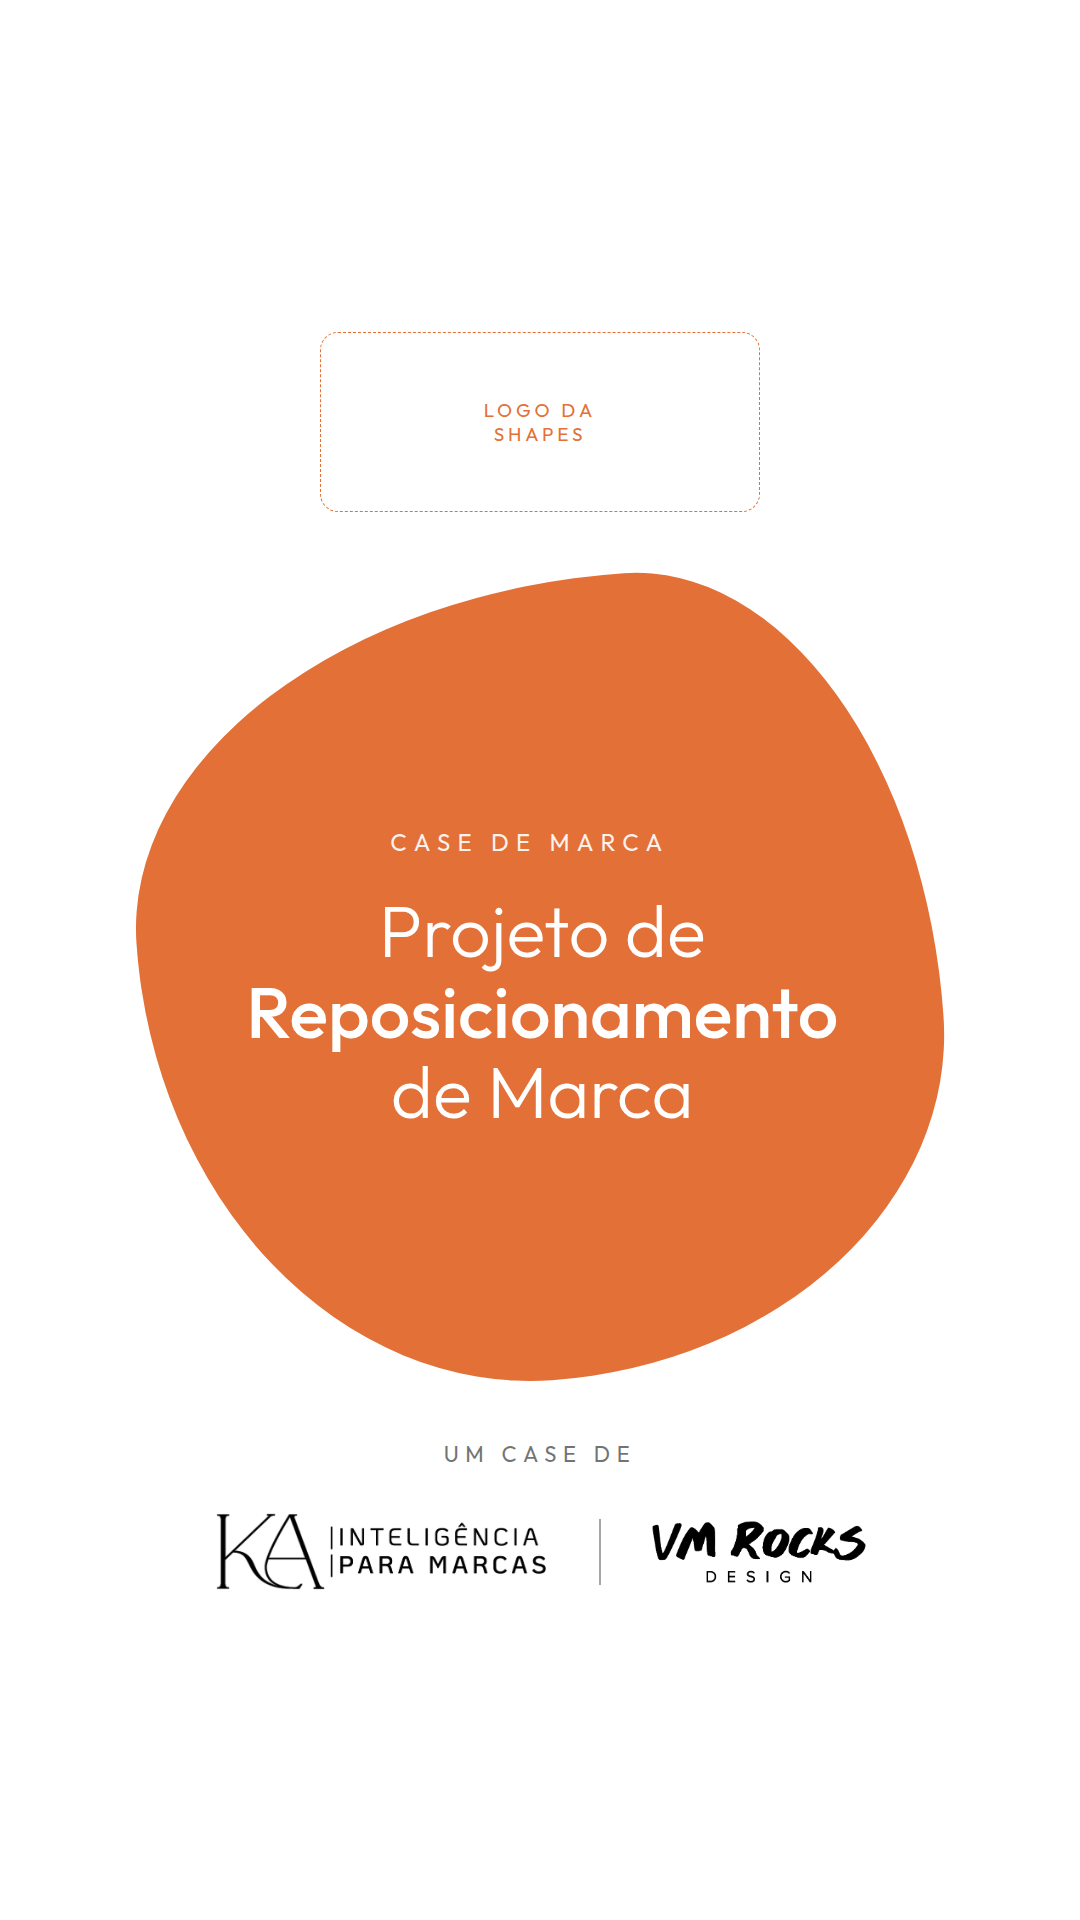
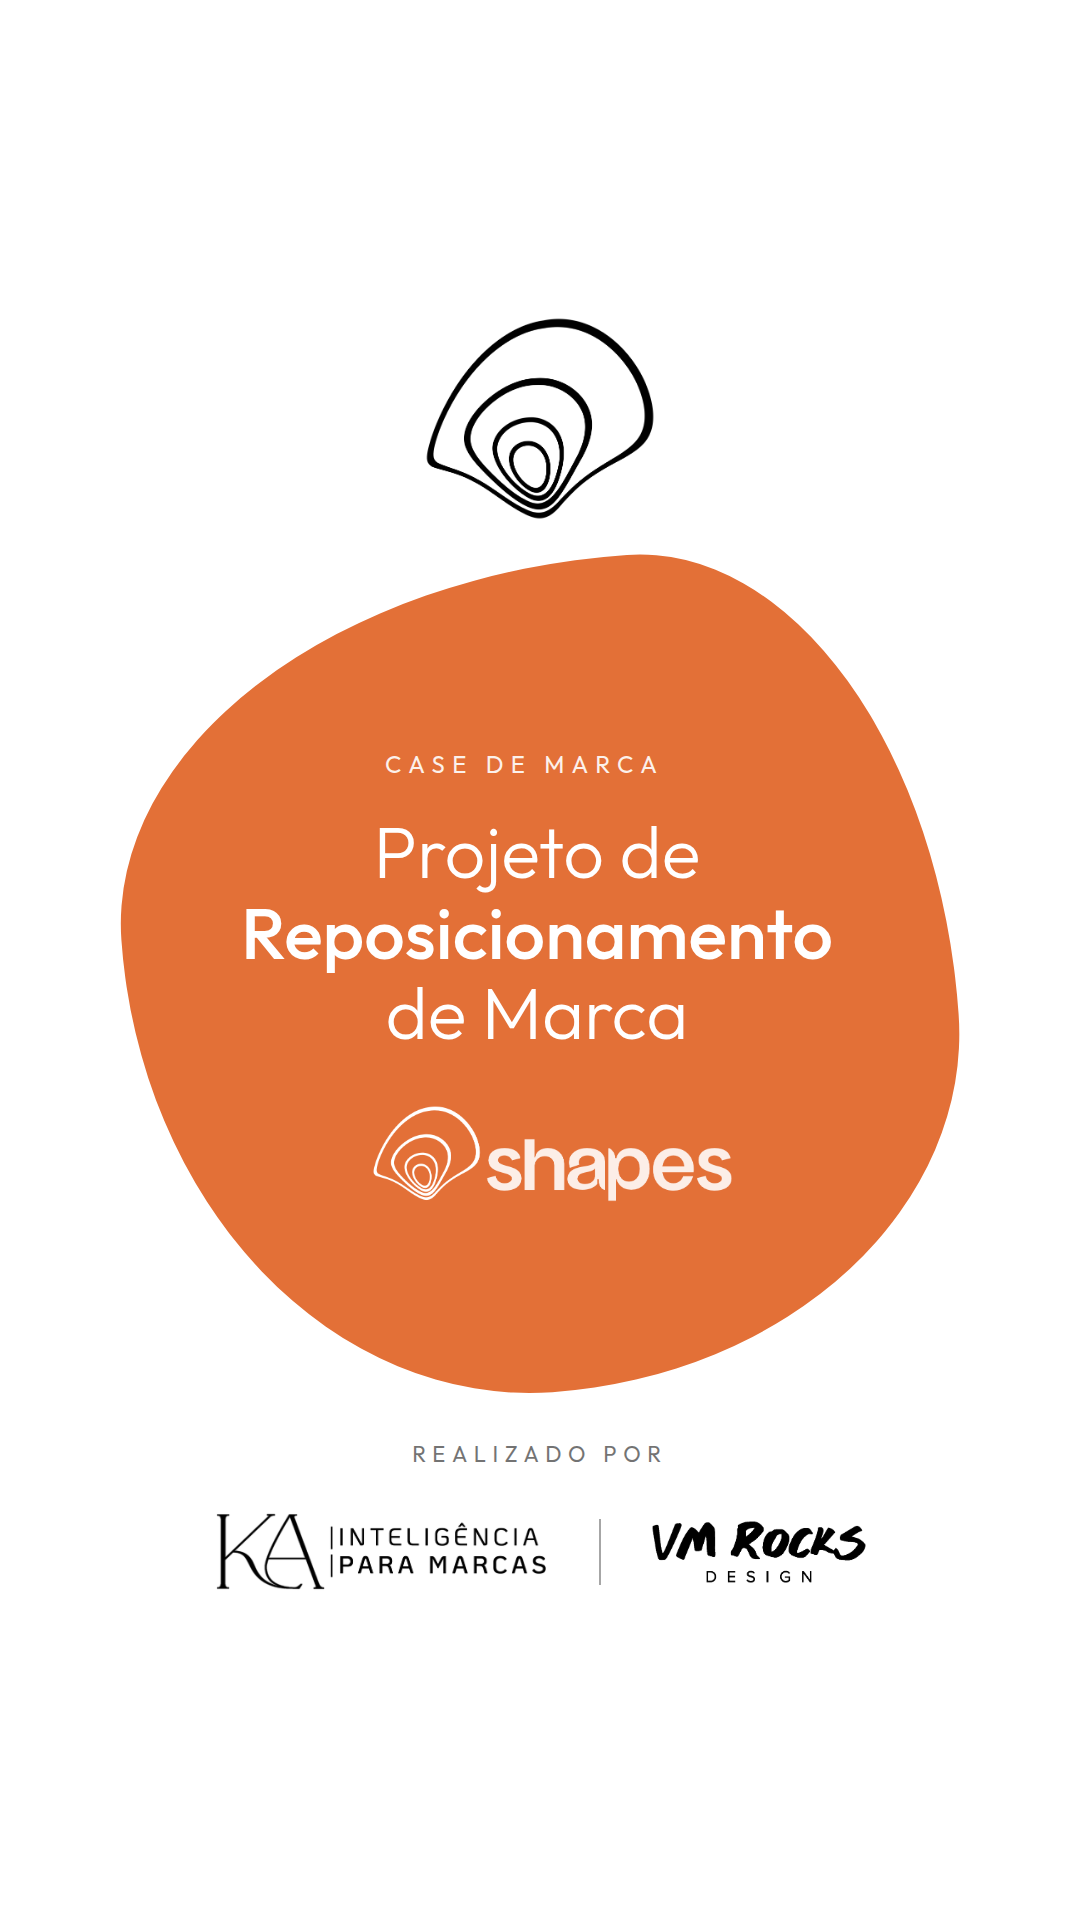
Aplica a marca da Shapes na capa do case
- a concha, sozinha, abre a capa
- a marca completa fecha o bloco do titulo, dentro da forma laranja
- "Um case de" vira "Realizado por"

Os dois ativos foram extraidos dos prints enviados: o branco virou
transparencia pelo inverso da luminancia, o que preserva as bordas suaves
do traco. A primeira extracao pegou os pontinhos de paginacao do app junto
e deu proporcao errada (0,87:1 para um lockup que e 3,53:1); localizei a
faixa real do desenho contando pixels escuros por linha.

Dentro da forma a marca vai na versao branca: sobre o laranja, a preta
brigaria com o texto. E ela precisou de 368px, nao 300 — abaixo disso a
concha do lockup fica com menos de 90px e as linhas internas viram borrao.
A forma cresceu de 800 para 830px para acomodar o bloco maior; sobraram
192px entre a marca e a base da forma.

Os arquivos sao reconstrucao a partir de captura de tela, nao os vetores
originais. Servem para tela; para impressao vale pedir o vetor.

Claude-Session: https://claude.ai/code/session_015YunUeG4gdRR6urYHdkvAD

diff --git a/sistema/sistema.css b/sistema/sistema.css
@@ -938,12 +938,19 @@ html, body {
 }
 
 /* Marca do cliente, no topo. */
-.capa-case__marca {
+/* Simbolo do cliente, sozinho, abrindo a capa. */
+.capa-case__simbolo {
   position: absolute;
   left: 50%;
-  top: 340px;
+  top: 316px;
   transform: translateX(-50%);
-  width: 420px;
+  width: 232px;
+}
+
+/* Marca completa do cliente, dentro da forma, fechando o bloco do titulo. */
+.capa-case__marca {
+  width: 368px;
+  margin-top: 48px;
 }
 
 /* Forma organica que carrega o titulo. E o gesto da Shapes: base neutra com
@@ -953,10 +960,10 @@ html, body {
 .capa-case__forma {
   position: absolute;
   left: 50%;
-  top: 580px;
+  top: 562px;
   transform: translateX(-50%) rotate(-4deg);
-  width: 800px;
-  height: 800px;
+  width: 830px;
+  height: 830px;
   background: var(--cliente-acento);
   /* Assimetria forte de proposito: a marca nasce de proporcao organica
      (Fibonacci), nao de geometria. Raio quase igual vira circulo, e
@@ -1024,22 +1031,4 @@ html, body {
 .capa-case__assinaturas img { display: block; }
 .capa-case__filete { width: var(--fio); height: 66px; background: var(--cliente-tinta); opacity: 0.35; }
 
-/* Encaixe do logo do cliente, enquanto o arquivo nao chega. */
-.capa-case__encaixe {
-  position: absolute;
-  left: 50%;
-  top: 332px;
-  transform: translateX(-50%);
-  width: 440px;
-  height: 180px;
-  border: 1.5px dashed var(--cliente-acento);
-  border-radius: 18px;
-  display: flex;
-  align-items: center;
-  justify-content: center;
-  text-align: center;
-  font-size: 19px;
-  letter-spacing: 0.2em;
-  text-transform: uppercase;
-  color: var(--cliente-acento);
-}
+

diff --git a/arte/capa-case-shapes.html b/arte/capa-case-shapes.html
@@ -31,17 +31,18 @@
      ===================================================================== -->
 <section class="slide slide--story capa-case">
 
-  <div class="capa-case__encaixe">logo da<br>Shapes</div>
+  <img class="capa-case__simbolo" src="../assets/shapes/concha-shapes-preto.png" alt="">
 
   <div class="capa-case__forma">
     <p class="capa-case__rotulo">Case de marca</p>
     <p class="capa-case__titulo">
       Projeto de<br><strong>Reposicionamento</strong><br>de Marca
     </p>
+    <img class="capa-case__marca" src="../assets/shapes/logo-shapes-branco.png" alt="Shapes">
   </div>
 
   <div class="capa-case__credito">
-    <p class="capa-case__credito-rotulo">Um case de</p>
+    <p class="capa-case__credito-rotulo">Realizado por</p>
     <div class="capa-case__assinaturas">
       <img src="../assets/logos/ka-marcas-horizontal-bold.png"
            alt="KA Inteligência para Marcas" style="width: 340px">

diff --git a/assets/shapes/LEIA-ME.md b/assets/shapes/LEIA-ME.md
@@ -13,16 +13,21 @@ Extraidos do brandbook (Canva, `DAG8XSf_Ayo` — `BRANDBOOK_SHAPES.pdf`).
 | Simbolo | a concha, derivada da sequencia de Fibonacci |
 | Base | neutra, com a cor entrando como massa — nunca fundo inteiro |
 
+## Arquivos
+
+| Arquivo | Uso |
+|---|---|
+| `logo-shapes-preto.png` | marca completa sobre fundo claro |
+| `logo-shapes-branco.png` | marca completa sobre cor ou fundo escuro |
+| `concha-shapes-preto.png` | simbolo sozinho, sobre fundo claro |
+| `concha-shapes-branco.png` | simbolo sozinho, sobre cor ou fundo escuro |
+
+Extraidos dos prints do Canva enviados pela Kelly: o branco virou
+transparencia pelo inverso da luminancia, entao as bordas ficam suaves.
+Sao reconstrucoes a partir de captura de tela, nao os vetores originais —
+servem para tela, mas para impressao vale pedir o arquivo vetorial.
+
 ## Pendente
-
-**`logo-shapes.png`** — o logo da marca, em PNG com fundo transparente.
-O dominio de download do Canva esta bloqueado neste ambiente, entao o
-arquivo precisa ser colocado aqui manualmente. Com ele, troque o bloco
-`.capa-case__encaixe` de `arte/capa-case-shapes.html` por:
-
-```html
-<img class="capa-case__marca" src="../assets/shapes/logo-shapes.png" alt="Shapes">
-```
 
 **Montilla** — fonte comercial, nao disponivel aqui. A capa usa Outfit no
 texto de apoio. Com o arquivo da fonte em `assets/fontes/`, e uma linha em
